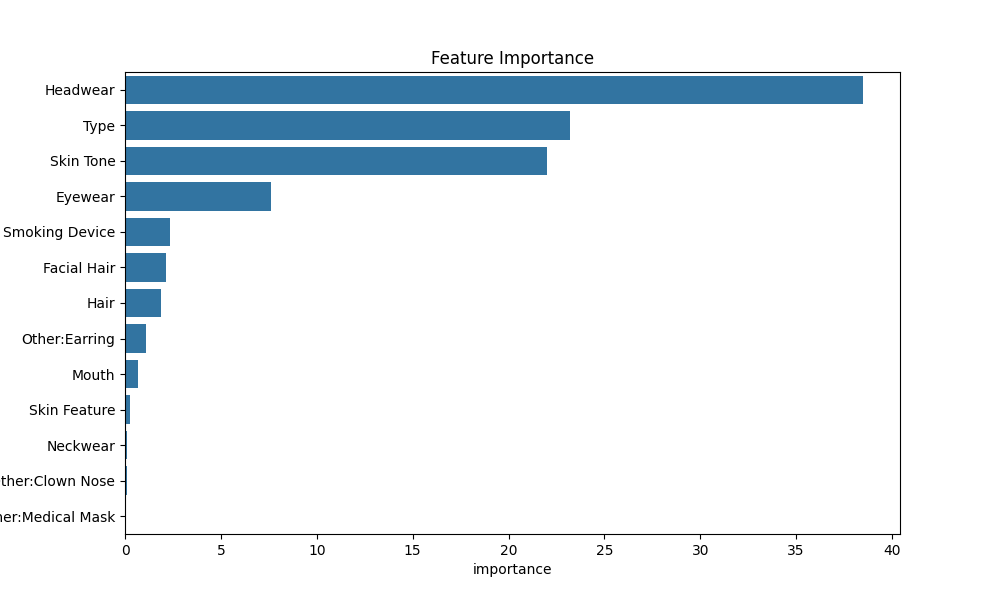
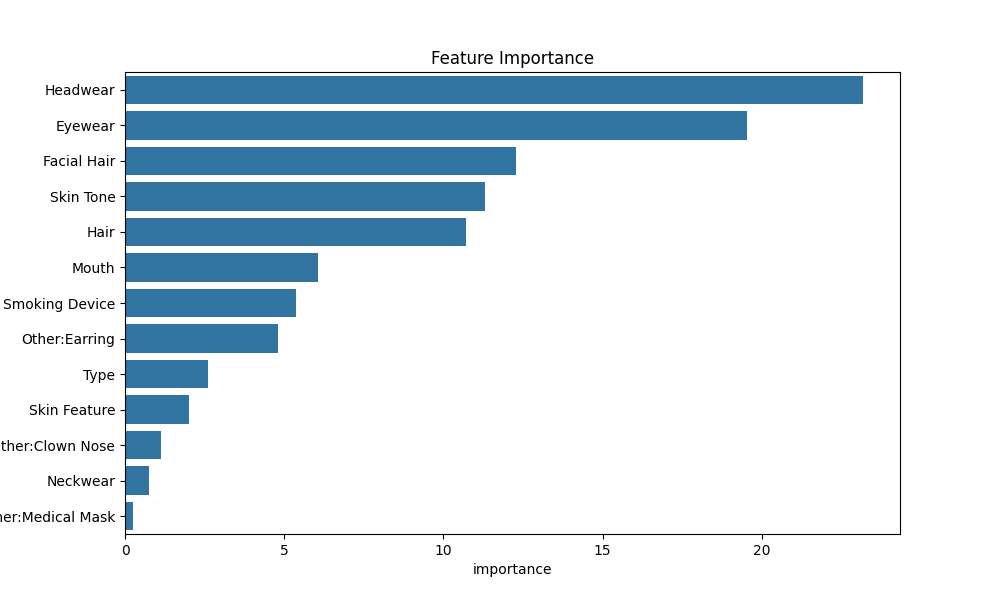
Submission V2

diff --git a/main.py b/main.py
@@ -99,7 +99,14 @@ df = token_metadata_sales_fx.copy()
 
 #remove covid periods - use data before 2019 adn after 2021
 df['date'] = pd.to_datetime(df['date'])
+
+#drop outliers based on rarity score where percentile is 99 and 0.01
+rarity_score_99 = df['rarity_score'].quantile(0.90)
+rarity_score_01 = df['rarity_score'].quantile(0.01)
+
 df = df[(df['date'].dt.year < 2019) | (df['date'].dt.year > 2021)]
+df = df[df['rarity_score'] < rarity_score_99]
+df = df[df['rarity_score'] > rarity_score_01]
 
 cb = CatBoostRegressor(verbose=0)
 
@@ -188,52 +195,53 @@ if SHOW_PLOTS:
     plt.show()
 
 #%%
-print(f'\n#########################################################')
-df = token_metadata_sales_fx.copy()
-cb = CatBoostRegressor(verbose=0)
-tmp_drop_cols = ['token_index', 
-             'usd', 
-             'eth',
-             'eth_usd', 
-             'eth_usd_normalized', 
-             'rarity_score_calculated', 
-             'rarity_score', 
-             'rarest_property_name', 
-             'Trait Count', 
-             'open']
-print('Normalizing the data...')
-#normalize values between 0 and 1 based on the date of sale
-df = df.drop(columns=tmp_drop_cols)
-df = df.groupby('date').transform(lambda x: (x - x.min()) / (x.max() - x.min()))
-df['eth'] = token_metadata_sales_fx['eth']
+if EVALUATION_COLUMN == 'eth':
+    print(f'\n#########################################################')
+    df = token_metadata_sales_fx.copy()
+    cb = CatBoostRegressor(verbose=0)
+    tmp_drop_cols = ['token_index', 
+                'usd', 
+                'eth',
+                'eth_usd', 
+                'eth_usd_normalized', 
+                'rarity_score_calculated', 
+                'rarity_score', 
+                'rarest_property_name', 
+                'Trait Count', 
+                'open']
+    print('Normalizing the data...')
+    #normalize values between 0 and 1 based on the date of sale
+    df = df.drop(columns=tmp_drop_cols)
+    df = df.groupby('date').transform(lambda x: (x - x.min()) / (x.max() - x.min()))
+    df['eth'] = token_metadata_sales_fx['eth']
 
-print(f'Fitting the model after normalization...')
-df.reset_index(inplace=True)
-df.drop(columns='index', inplace=True)
+    print(f'Fitting the model after normalization...')
+    df.reset_index(inplace=True)
+    df.drop(columns='index', inplace=True)
 
-#train the model
-X = df.drop(columns=EVALUATION_COLUMN)
-y = df[EVALUATION_COLUMN]
-X_train, X_test, y_train, y_test = train_test_split(X, y, test_size=0.3, random_state=42)
-cb.fit(X_train, y_train)
-y_pred = cb.predict(X_test)
-mse = mean_squared_error(y_test, y_pred)
-print(f'Mean Squared Error after normalization: {mse}')
+    #train the model
+    X = df.drop(columns=EVALUATION_COLUMN)
+    y = df[EVALUATION_COLUMN]
+    X_train, X_test, y_train, y_test = train_test_split(X, y, test_size=0.3, random_state=42)
+    cb.fit(X_train, y_train)
+    y_pred = cb.predict(X_test)
+    mse = mean_squared_error(y_test, y_pred)
+    print(f'Mean Squared Error after normalization: {mse}')
 
-print(f'\n#########################################################')
-print(f'Feature Importance after normalization')
-feature_importance = pd.DataFrame({'feature': X.columns, 'importance': cb.feature_importances_})
-feature_importance = feature_importance.sort_values(by='importance', ascending=False)
-print(f'{feature_importance}')
-if not os.path.exists('output'):
-    os.makedirs('output')
-feature_importance.to_csv('output/feature_importance_normalized.csv', index=False)
-print(f'Feature Importance after normalization saved to output/feature_importance_normalized.csv')
+    print(f'\n#########################################################')
+    print(f'Feature Importance after normalization')
+    feature_importance = pd.DataFrame({'feature': X.columns, 'importance': cb.feature_importances_})
+    feature_importance = feature_importance.sort_values(by='importance', ascending=False)
+    print(f'{feature_importance}')
+    if not os.path.exists('output'):
+        os.makedirs('output')
+    feature_importance.to_csv('output/feature_importance_normalized.csv', index=False)
+    print(f'Feature Importance after normalization saved to output/feature_importance_normalized.csv')
 
-plt.figure(figsize=(10, 6))
-sns.barplot(data=feature_importance, x='importance', y='feature')
-plt.title('Feature Importance after normalization')
-plt.savefig('output/feature_importance_normalized.png')
-print(f'Feature Importance after normalization plot saved to output/feature_importance_normalized.png')
-if SHOW_PLOTS:
-    plt.show()
+    plt.figure(figsize=(10, 6))
+    sns.barplot(data=feature_importance, x='importance', y='feature')
+    plt.title('Feature Importance after normalization')
+    plt.savefig('output/feature_importance_normalized.png')
+    print(f'Feature Importance after normalization plot saved to output/feature_importance_normalized.png')
+    if SHOW_PLOTS:
+        plt.show()
